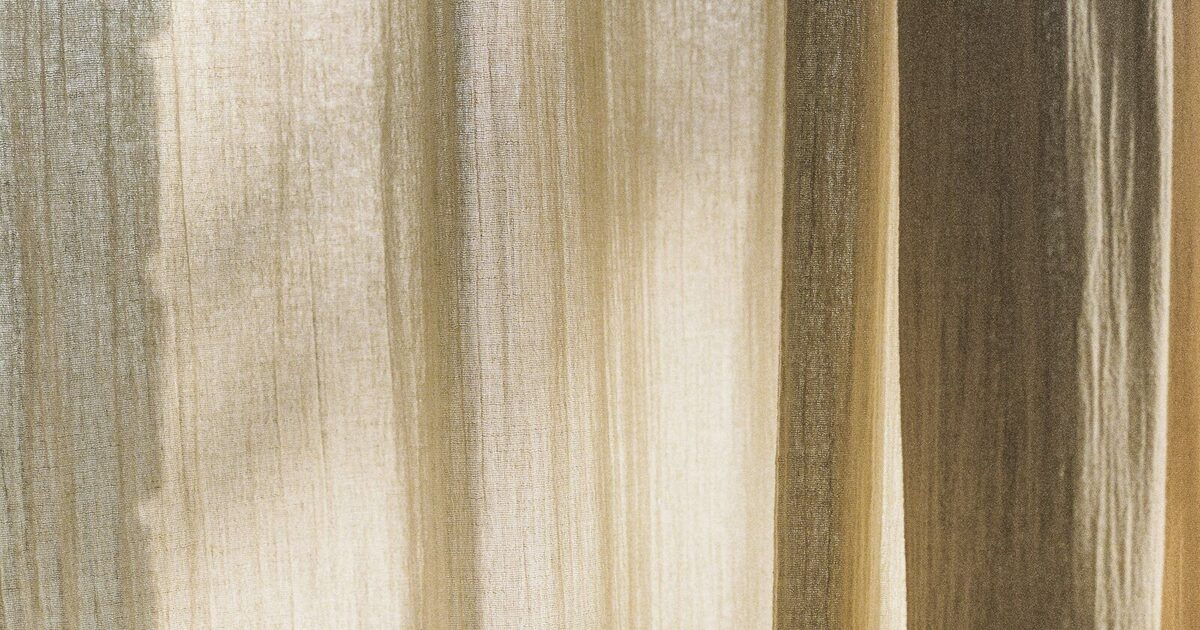
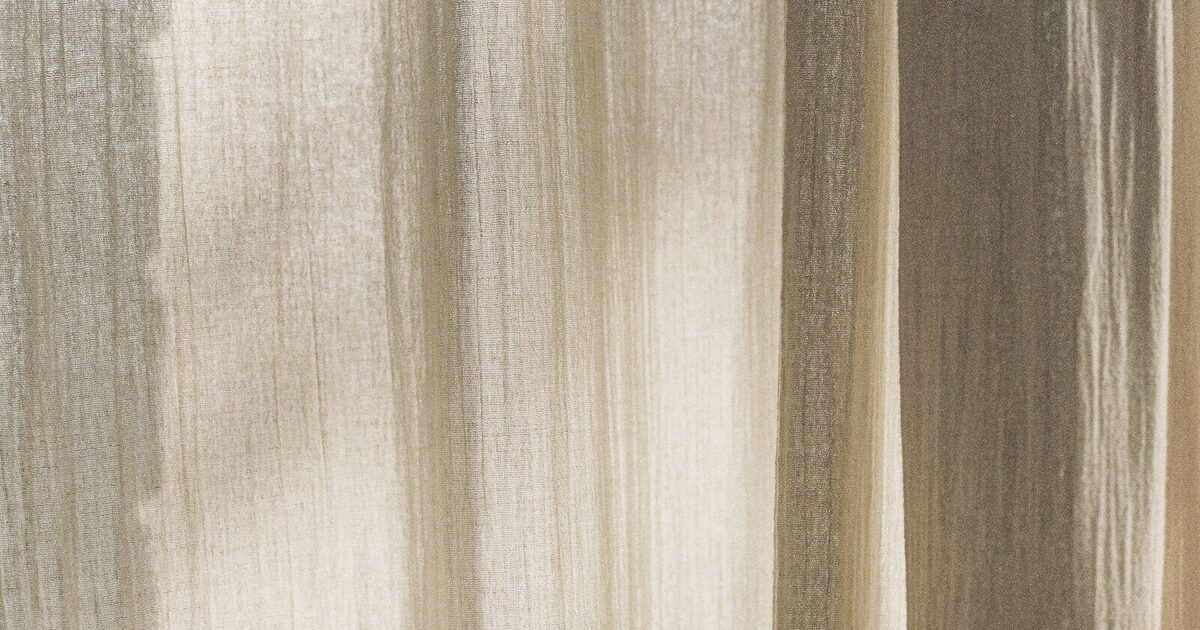
Light and minimal pass: two neutrals, one accent, readable buttons, decisive photo grade
- Backgrounds: cream and warm sand only; sage, olive, blush, and orange slabs retired
  sitewide (including inline-styled sections and the inner-page closing bands)
- One accent (burnt) for primary buttons and labels; secondary buttons in ink, which
  fixes the hard-to-see 'More about me' button
- Italic heading words in ink; pale accent words removed
- Small text: heavier weight, darker tone
- Photos: stronger shared grade (muted, one warm tone, soft blacks) on every hero and
  section photo; lighter, identical overlay on all inner heroes

diff --git a/css/style.css b/css/style.css
@@ -110,7 +110,7 @@ nav.scrolled { padding:14px 60px; box-shadow:0 2px 24px rgba(44,36,22,0.08); }
 /* ── HERO — home full ── */
 .hero {
   min-height:100vh;
-  background:linear-gradient(to bottom, rgba(44,36,22,0.04) 0%, rgba(44,36,22,0.14) 42%, rgba(44,36,22,0.66) 100%), url('../images/hero-butterfly-wide-g.jpg') center 45%/cover no-repeat;
+  background:linear-gradient(to bottom, rgba(44,36,22,0.04) 0%, rgba(44,36,22,0.14) 42%, rgba(44,36,22,0.66) 100%), url('../images/hero-butterfly-wide-w.jpg') center 45%/cover no-repeat;
   display:flex; align-items:flex-end;
   padding:0 60px 90px;
 }
@@ -124,20 +124,20 @@ nav.scrolled { padding:14px 60px; box-shadow:0 2px 24px rgba(44,36,22,0.08); }
 .page-hero {
   height:460px;
   /* diagonal wash keeps the top-left headline crisp over any photo */
-  background:linear-gradient(100deg, rgba(38,29,17,0.80) 0%, rgba(38,29,17,0.5) 48%, rgba(38,29,17,0.34) 100%), url('../images/hero-butterfly-wide-g.jpg') center 40%/cover no-repeat;
+  background:linear-gradient(100deg, rgba(38,29,17,0.80) 0%, rgba(38,29,17,0.5) 48%, rgba(38,29,17,0.34) 100%), url('../images/hero-butterfly-wide-w.jpg') center 40%/cover no-repeat;
   display:flex; align-items:flex-start;
   padding:120px 60px 0;
   box-sizing:border-box;
 }
 /* Distinct, theme-matched imagery per page */
-.page-hero.hero-about   { background-image:linear-gradient(100deg, rgba(38,29,17,0.74) 0%, rgba(38,29,17,0.46) 50%, rgba(38,29,17,0.28) 100%), url('../images/hero-niches-g.jpg'); background-position:center 50%; }
-.page-hero.hero-services{ background-image:linear-gradient(100deg, rgba(38,29,17,0.74) 0%, rgba(38,29,17,0.46) 50%, rgba(38,29,17,0.28) 100%), url('../images/hero-armchair-g.jpg'); background-position:center 45%; }
-.page-hero.hero-mothers { background-image:linear-gradient(100deg, rgba(38,29,17,0.74) 0%, rgba(38,29,17,0.46) 50%, rgba(38,29,17,0.28) 100%), url('../images/hero-linens-g.jpg'); background-position:center 60%; }
-.page-hero.hero-path    { background-image:linear-gradient(100deg, rgba(38,29,17,0.74) 0%, rgba(38,29,17,0.46) 50%, rgba(38,29,17,0.28) 100%), url('../images/hero-curtains-g.jpg'); background-position:center 50%; }
-.page-hero.hero-journal { background-image:linear-gradient(100deg, rgba(38,29,17,0.74) 0%, rgba(38,29,17,0.46) 50%, rgba(38,29,17,0.28) 100%), url('../images/hero-vessels-g.jpg'); background-position:70% 60%; }
-.page-hero.hero-leaves  { background-image:linear-gradient(100deg, rgba(38,29,17,0.74) 0%, rgba(38,29,17,0.46) 50%, rgba(38,29,17,0.28) 100%), url('../images/hero-palm-g.jpg'); background-position:center 50%; }
-.page-hero.hero-contact { background-image:linear-gradient(100deg, rgba(38,29,17,0.74) 0%, rgba(38,29,17,0.46) 50%, rgba(38,29,17,0.28) 100%), url('../images/hero-sheer-g.jpg'); background-position:center 50%; }
-.page-hero.hero-faq     { background-image:linear-gradient(100deg, rgba(38,29,17,0.74) 0%, rgba(38,29,17,0.46) 50%, rgba(38,29,17,0.28) 100%), url('../images/hero-arches-g.jpg'); background-position:center 55%; }
+.page-hero.hero-about   { background-image:linear-gradient(100deg, rgba(38,29,17,0.62) 0%, rgba(38,29,17,0.34) 48%, rgba(38,29,17,0.12) 100%), url('../images/hero-niches-w.jpg'); background-position:center 50%; }
+.page-hero.hero-services{ background-image:linear-gradient(100deg, rgba(38,29,17,0.62) 0%, rgba(38,29,17,0.34) 48%, rgba(38,29,17,0.12) 100%), url('../images/hero-armchair-w.jpg'); background-position:center 45%; }
+.page-hero.hero-mothers { background-image:linear-gradient(100deg, rgba(38,29,17,0.62) 0%, rgba(38,29,17,0.34) 48%, rgba(38,29,17,0.12) 100%), url('../images/hero-linens-w.jpg'); background-position:center 60%; }
+.page-hero.hero-path    { background-image:linear-gradient(100deg, rgba(38,29,17,0.62) 0%, rgba(38,29,17,0.34) 48%, rgba(38,29,17,0.12) 100%), url('../images/hero-curtains-w.jpg'); background-position:center 50%; }
+.page-hero.hero-journal { background-image:linear-gradient(100deg, rgba(38,29,17,0.62) 0%, rgba(38,29,17,0.34) 48%, rgba(38,29,17,0.12) 100%), url('../images/hero-vessels-w.jpg'); background-position:70% 60%; }
+.page-hero.hero-leaves  { background-image:linear-gradient(100deg, rgba(38,29,17,0.62) 0%, rgba(38,29,17,0.34) 48%, rgba(38,29,17,0.12) 100%), url('../images/hero-palm-w.jpg'); background-position:center 50%; }
+.page-hero.hero-contact { background-image:linear-gradient(100deg, rgba(38,29,17,0.62) 0%, rgba(38,29,17,0.34) 48%, rgba(38,29,17,0.12) 100%), url('../images/hero-sheer-w.jpg'); background-position:center 50%; }
+.page-hero.hero-faq     { background-image:linear-gradient(100deg, rgba(38,29,17,0.62) 0%, rgba(38,29,17,0.34) 48%, rgba(38,29,17,0.12) 100%), url('../images/hero-arches-w.jpg'); background-position:center 55%; }
 .page-hero-inner { max-width:1200px; width:100%; }
 .breadcrumb { font-size:0.68rem; letter-spacing:0.18em; text-transform:uppercase; color:rgba(255,255,255,0.65); margin-bottom:16px; }
 .breadcrumb a { color:rgba(255,255,255,0.65); transition:color 0.2s; }
@@ -530,7 +530,7 @@ a:focus-visible, button:focus-visible { outline:2px solid var(--burnt); outline-
   .nav-links { display:none; }
   .hamburger { display:flex; }
 
-  .hero { padding:0 20px 110px; min-height:100svh; background:linear-gradient(to bottom, rgba(44,36,22,0.2) 0%, rgba(44,36,22,0.5) 40%, rgba(44,36,22,0.88) 100%), url('../images/hero-butterfly-mobile-g.jpg') center top/cover no-repeat; }
+  .hero { padding:0 20px 110px; min-height:100svh; background:linear-gradient(to bottom, rgba(44,36,22,0.2) 0%, rgba(44,36,22,0.5) 40%, rgba(44,36,22,0.88) 100%), url('../images/hero-butterfly-mobile-w.jpg') center top/cover no-repeat; }
   .hero-inner { grid-template-columns:1fr; gap:28px; }
   .hero-headline { font-size:clamp(2.2rem,9vw,3.2rem); }
   .hero-right { border-left:none; padding-left:0; border-top:1px solid rgba(255,218,198,0.35); padding-top:24px; }
@@ -676,7 +676,7 @@ a:focus-visible, button:focus-visible { outline:2px solid var(--burnt); outline-
 .form-status code { background:rgba(0,0,0,0.06); padding:1px 5px; border-radius:3px; font-size:0.82em; }
 
 /* ── Blog ── */
-.hero-blog { background:linear-gradient(100deg, rgba(38,29,17,0.74) 0%, rgba(38,29,17,0.44) 52%, rgba(38,29,17,0.3) 100%), url('../images/blog/journal-morning-g.jpg') center 45%/cover no-repeat; }
+.hero-blog { background:linear-gradient(100deg, rgba(38,29,17,0.62) 0%, rgba(38,29,17,0.34) 48%, rgba(38,29,17,0.12) 100%), url('../images/blog/journal-morning-w.jpg') center 45%/cover no-repeat; }
 .blog-grid { display:grid; grid-template-columns:repeat(auto-fill,minmax(320px,1fr)); gap:34px; }
 .blog-card { display:flex; flex-direction:column; background:#fff; border-radius:4px; overflow:hidden; text-decoration:none; box-shadow:0 2px 14px rgba(44,36,22,0.06); transition:transform .25s, box-shadow .25s; }
 .blog-card:hover { transform:translateY(-4px); box-shadow:0 12px 30px rgba(44,36,22,0.12); }
@@ -822,3 +822,69 @@ p, li { text-wrap:pretty; }
 .kayla-section .btn-outline { margin-top:8px; }
 @media (max-width:1024px) { .help-section { padding:80px 30px; } .help-grid { grid-template-columns:repeat(2,minmax(0,1fr)); } }
 @media (max-width:767px) { .help-section { padding:64px 20px; } .help-grid { grid-template-columns:1fr; } .process-steps--three { grid-template-columns:1fr; } }
+
+/* ══════════════════════════════════════════════════════════
+   LIGHT & MINIMAL PASS
+   Two light neutrals (cream, sand), one accent (burnt), ink for text.
+══════════════════════════════════════════════════════════ */
+:root { --sand:#F3ECE3; --ink:#2C2416; --rule-light:rgba(44,36,22,0.12); }
+
+/* Section backgrounds: retire the heavy sage / olive / blush / orange blocks */
+.kayla-section, .instagram-section, .process-section, .contact-section { background:var(--sand); }
+.help-section, .services-section, .fees-section { background:var(--cream); }
+.process-section { background:var(--cream); }
+.instagram-section { background:var(--sand); }
+.strip { background:var(--cream); color:var(--mid); border-top:1px solid var(--rule-light); border-bottom:1px solid var(--rule-light); }
+.strip a { color:var(--ink); }
+
+/* Headings: italic words stay italic but in ink, not olive */
+.section-title em, .service-detail h2 em, .cta-band h2 em { color:inherit; }
+
+/* Buttons: burnt for the one primary action, ink outline for everything else */
+.btn-outline { border-color:rgba(44,36,22,0.55); color:var(--ink); }
+.btn-outline:hover { background:var(--ink); border-color:var(--ink); color:#fff; }
+.btn-primary:hover { background:var(--ink); }
+
+/* Small text: readable weight and contrast */
+.help-item p, .process-step p, .service-card p, .value-card p, .modality-item p, .fee-card p,
+.faq-answer p, .service-sidebar li, .contact-detail p, .contact-detail a, .ig-meta { font-weight:400; color:#5E5240; }
+.body-text { color:#5E5240; }
+
+/* Quote: quiet, no white box */
+.kayla-quote { background:transparent; border-left:2px solid var(--burnt); padding:6px 0 6px 26px; }
+
+/* Process cards: white on cream, hairline instead of grey gutters */
+.process-steps { background:transparent; gap:16px; }
+.process-step { border:1px solid var(--rule-light); }
+
+/* Inner-page closing band: light, not a full orange slab */
+.cta-band { background:var(--sand); border-top:1px solid var(--rule-light); }
+.cta-band h2 { color:var(--ink); }
+.cta-band p { color:#5E5240; }
+.cta-band .btn-white { background:var(--burnt); color:#fff; }
+.cta-band .btn-white:hover { background:var(--ink); color:#fff; }
+.cta-band .btn-outline { border-color:rgba(44,36,22,0.55) !important; color:var(--ink) !important; }
+.cta-band .btn-outline:hover { background:var(--ink) !important; color:#fff !important; }
+
+/* Mothers band and story band: light versions */
+.niche-section { background:var(--sand) !important; }
+.niche-section .section-title, .story-section .section-title { color:var(--ink); }
+.niche-section .eyebrow, .story-section .eyebrow { color:var(--burnt); }
+.niche-section .body-text, .story-section .body-text { color:#5E5240 !important; }
+.niche-checklist li { color:#5E5240; border-bottom-color:var(--rule-light); }
+.niche-checklist li::before { color:var(--burnt); }
+.story-section { background:var(--cream); border-top:1px solid var(--rule-light); border-bottom:1px solid var(--rule-light); }
+.story-section .btn-white { background:var(--burnt); color:#fff; }
+.story-butterfly svg { fill:var(--olive) !important; }
+.story-butterfly svg [stroke="#FFDAC6"] { stroke:var(--olive); }
+
+/* Sidebars and focus cards */
+.service-sidebar { background:var(--sand); }
+.service-card { border:1px solid var(--rule-light); }
+.services-grid { background:transparent; gap:16px; }
+/* Light pass, part 2: sections that set heavy backgrounds inline, and pale accent words */
+section[style*="background:var(--blush)"], div[style*="background:var(--blush)"],
+section[style*="background:var(--sage)"] { background:var(--sand) !important; }
+.niche-section .section-title em, .story-section .section-title em, .kayla-section .section-title em { color:inherit !important; }
+.page-hero h1 em { color:inherit; }
+.cta-band .eyebrow { color:var(--burnt); }

diff --git a/index.html b/index.html
@@ -22,7 +22,7 @@
 <script type="application/ld+json">
 {"@context":"https://schema.org","@type":"MedicalBusiness","name":"Mariposa Mental Wellness","description":"Trauma-informed therapy for adults in Mesa, AZ. IFS, EMDR, DBT, somatic therapy. Trauma/CPTSD, anxiety, perfectionism, ADHD, OCD, people-pleasing.","url":"https://mariposamentalwellness.com","telephone":"(480) 605-0846","priceRange":"$165","image":"https://mariposamentalwellness.com/images/og/home.jpg","address":{"@type":"PostalAddress","streetAddress":"1845 S Dobson Rd Suite 101","addressLocality":"Mesa","addressRegion":"AZ","postalCode":"85202","addressCountry":"US"},"geo":{"@type":"GeoCoordinates","latitude":33.3922,"longitude":-111.8437},"employee":{"@type":"Person","name":"Kayla Martinez","jobTitle":"Licensed Professional Counselor","description":"MS, LPC, licensed in Arizona (LPC-24196). IFS, EMDR, trauma therapy."},"sameAs":["https://www.instagram.com/mariposamentalwellness","https://www.psychologytoday.com/us/therapists/kayla-martinez-mesa-az/1091543"]}
 </script>
-<link rel="preload" as="image" href="images/hero-butterfly-wide-g.jpg" fetchpriority="high">
+<link rel="preload" as="image" href="images/hero-butterfly-wide-w.jpg" fetchpriority="high">
 <link rel="stylesheet" href="css/style.css">
 </head>
 <body>

diff --git a/blog/oldest-daughter-syndrome/index.html b/blog/oldest-daughter-syndrome/index.html
@@ -69,7 +69,7 @@
 </section>
 <section style="background:white;">
   <div class="section post-wrap">
-    <img src="../../images/linens-crate.jpg" alt="Folded linens in soft peach and sand tones stacked on a wooden crate" class="post-hero-img">
+    <img src="../../images/linens-crate-w.jpg" alt="Folded linens in soft peach and sand tones stacked on a wooden crate" class="post-hero-img">
     <article class="post-body"><p>If you&#39;re the oldest daughter, there&#39;s a good chance you learned to read a room before you learned to ride a bike. You knew when the mood shifted. You knew whose feelings needed managing. You became responsible, capable, and <em>so</em> dependable, and somewhere along the way, being needed started to feel like the same thing as being loved.</p>
 <p>That&#39;s the quiet weight I hear about most often in my practice here in Mesa. It even has an unofficial name now: <strong>oldest daughter syndrome.</strong> It isn&#39;t a clinical diagnosis, but it points to something very real.</p>
 <h2>What &quot;oldest daughter syndrome&quot; actually describes</h2>

diff --git a/blog/index.html b/blog/index.html
@@ -70,7 +70,7 @@
 <section style="background:var(--cream);">
   <div class="section">
     <div class="blog-grid"><a class="blog-card" href="/blog/oldest-daughter-syndrome/">
-      <div class="blog-card-img"><img src="../images/linens-crate.jpg" alt="Folded linens in soft peach and sand tones stacked on a wooden crate" loading="lazy"></div>
+      <div class="blog-card-img"><img src="../images/linens-crate-w.jpg" alt="Folded linens in soft peach and sand tones stacked on a wooden crate" loading="lazy"></div>
       <div class="blog-card-body">
         <div class="post-meta">July 14, 2026 &middot; Motherhood & Burnout</div>
         <h2>What Is Oldest Daughter Syndrome? (And Why It Might Be Running Your Life)</h2>

diff --git a/therapy-for-mothers-mesa-az/index.html b/therapy-for-mothers-mesa-az/index.html
@@ -89,7 +89,7 @@
       <a href="/contact/" class="btn-primary" style="margin-top:16px;">Book a Consultation</a>
     </div>
     <div class="niche-img reveal">
-      <img width="1150" height="912" src="../images/mother-rest.jpg" alt="A quiet moment of rest with a book and warm blanket, therapy for mothers in Mesa AZ" loading="lazy">
+      <img width="1150" height="912" src="../images/mother-rest-w.jpg" alt="A quiet moment of rest with a book and warm blanket, therapy for mothers in Mesa AZ" loading="lazy">
     </div>
   </div>
 </section>

diff --git a/faq/index.html b/faq/index.html
@@ -389,7 +389,7 @@
 <!-- CTA -->
 <section class="cta-band">
   <div class="cta-band-inner">
-    <p class="eyebrow" style="color:var(--blush);">Still have questions?</p>
+    <p class="eyebrow">Still have questions?</p>
     <h2>The easiest thing to do is just <em>reach out</em></h2>
     <p>I&rsquo;m happy to answer any question before you commit to anything. The free consultation is exactly for this.</p>
     <div class="cta-band-links">

diff --git a/content/posts/oldest-daughter-syndrome.md b/content/posts/oldest-daughter-syndrome.md
@@ -4,7 +4,7 @@ date: 2026-07-14T09:00:00.000Z
 published: true
 author: Kayla Martinez, MS, LPC
 excerpt: "If you were the responsible one, the helper, the child who kept everyone steady, that role didn't disappear when you grew up. Here's how oldest daughter syndrome shows up, and how therapy helps you set it down."
-image: /images/linens-crate.jpg
+image: /images/linens-crate-w.jpg
 imageAlt: "Folded linens in soft peach and sand tones stacked on a wooden crate"
 tags:
   - Motherhood & Burnout
